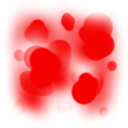
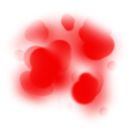
Changing lighting so images are in the background on divs instead of img elements, allowing for changes by simply adding/removing classes. Removes unnecessary light image change event handler.

diff --git a/www/js/pc-class.js b/www/js/pc-class.js
@@ -66,9 +66,10 @@ class PlayerCharacter {
         let newRow = +centerTile.slice(3,this.playerTileIdColIndex),
             newCol = +centerTile.slice(this.playerTileIdColIndex + 3),
             $lightRadiusTiles,
-            $centerTile = $('#' + centerTile);
+            $oldCenterTile = $('#' + this.pos),
+            $newCenterTile = $('#' + centerTile);
 
-        this.removeCenterLighting();
+        this.removeLighting($oldCenterTile, 'light-ctr', 'light-img-radius');
 
         for (let i = this.lightRadius; i >= 1; i--) {
             $lightRadiusTiles = this.helpers.findSurroundingTiles(newRow, newCol, i);
@@ -76,27 +77,25 @@ class PlayerCharacter {
             // when moving, set previous outer light circle to darkness
             if (centerTile !== this.pos && i === this.lightRadius) {
                 let $lastLightRadius = this.helpers.findSurroundingTiles(this.row, this.col, i);
-                $lastLightRadius
-                    .removeClass('light')
-                    .addClass('light-non')
-                    .trigger('lightChange', ['light-non', '<img class="light-img" src="img/light-non.png">']);
+                this.removeLighting($lastLightRadius, 'light', 'light-img-trans');
+                this.addLighting($lastLightRadius, 'light-non', 'light-img-non');
             }
-            $lightRadiusTiles
-                .removeClass('light-non')
-                .addClass('light')
-                .trigger('lightChange', ['light', '<img class="light-img" src="img/trans.png">']);
+            this.removeLighting($lightRadiusTiles, 'light-non', 'light-img-non');
+            this.addLighting($lightRadiusTiles, 'light', 'light-img-trans');
         }
 
-        $centerTile
-            .removeClass('light-non')
-            .addClass('light light-ctr')
-            .trigger('lightChange', ['light-ctr', '<img class="light-img-radius light-img" src="img/light-radius.png">']);
+        this.removeLighting($newCenterTile, '', 'light-img-trans');
+        this.addLighting($newCenterTile, 'light light-ctr', 'light-img-radius');
     }
 
-    removeCenterLighting() {
-        $('#' + this.pos)
-            .trigger('lightChange', ['light-ctr', '<img class="light-img" src="img/trans.png">'])
-            .removeClass('light-ctr');
+    addLighting($tile, lightClass, lightImgClass) {
+        $tile.addClass(lightClass);
+        $tile.children('.light-img').addClass(lightImgClass);
+    }
+
+    removeLighting($tile, lightClass, lightImgClass) {
+        $tile.removeClass(lightClass);
+        $tile.children('.light-img').removeClass(lightImgClass);
     }
 
     /*

diff --git a/www/js/grid-class.js b/www/js/grid-class.js
@@ -14,8 +14,8 @@ class Grid {
         let self = this,
             markup = '',
             id = '',
-            blackGroundTile = '<figure id="" class="tile tile-ground-dungeon walkable light-non"><img class="light-img" src="img/light-non.png"><img class="content" src="img/trans.png"></figure>',
-            borderTile = '<figure id="" class="tile tile-wall impassable light-non"><img class="light-img" src="img/light-non.png"><img class="content" src="img/trans.png"></figure>';
+            blackGroundTile = '<figure id="" class="tile tile-ground-dungeon walkable light-non"><div class="light-img light-img-non"></div><img class="content" src="img/trans.png"></figure>',
+            borderTile = '<figure id="" class="tile tile-wall impassable light-non"><div class="light-img light-img-non"></div><img class="content" src="img/trans.png"></figure>';
 
         $('.grid').prepend(() => {
             for(let rowNum=0; rowNum <= self.gridHeight + 1; rowNum++) {
@@ -55,10 +55,6 @@ class Grid {
         $('.' + tileClass + '>img.content').replaceWith(image);
     }
 
-    updateLightingImage(e, tileClass, image) {
-        $('.' + tileClass + '>img.light-img').replaceWith(image);
-    }
-
     animateTile(e, params) {
         let $target = $('#' + params.targetObject.pos),
             $targetContent = $target.children('.content'),
@@ -68,7 +64,7 @@ class Grid {
 
         switch (type) {
             case 'attack':
-                $target.prepend("<img class='blood' src='img/blood.png'>");
+                $target.prepend("<div class='blood'></div>");
                 $(".blood")
                     .css("transform", "rotate(" + rotation + "deg)")
                     .animate({opacity: 1}, 100)

diff --git a/www/css/index.css b/www/css/index.css
@@ -45,6 +45,10 @@ figure {
     }
 }
 
+/**
+ *  Status bar
+ */
+
 #statusbar {
     position: relative;
     z-index: 4;
@@ -92,6 +96,10 @@ figure {
     box-shadow: 1px 1px 2px black;
 }
 
+/**
+ *  Grid
+ */
+
 .grid {
     margin: auto;
     background-color:black;
@@ -119,17 +127,43 @@ figure {
     background-size: contain;
 }
 
+/**
+ *  Lighting
+ */
+
 .light-img {
-    z-index: 2;
     position: absolute;
 }
 
+.light-img-trans {
+    background-image: url('../img/trans.png');
+    width: 64px;
+    height: 64px;
+    z-index: 2;
+}
+
+.light-img-non {
+    background-image: url('../img/light-non.png');
+    width: 64px;
+    height: 64px;
+    z-index: 2;
+}
+
 .light-img-radius {
-    left: -158px;
-    top: -158px;
-    width: 380px;
+    background-image: url('../img/light-radius.png');
+    background-size: 360px 360px;
+    background-repeat: no-repeat;
+    background-position: -20px -20px;
+    left: -128px;
+    top: -128px;
+    width: 320px;
+    height: 320px;
     z-index: 1;
 }
+
+/**
+ *  Modal
+ */
 
 .modal {
     display: none;
@@ -198,7 +232,11 @@ figure {
 
 .blood {
     position: absolute;
+    background-image: url('../img/blood.png');
+    background-size: 64px 64px;
+    background-repeat: no-repeat;
     width: 64px;
+    height: 64px;
     opacity: 0;
     z-index: 1;
 }

diff --git a/www/js/turn-control.js b/www/js/turn-control.js
@@ -41,7 +41,6 @@ class TurnController {
         // $('.light-img').remove();
 
         this.events.setUpTileChangeListener(this.tileListenerTarget, this.grid.updateTileImage);
-        this.events.setUpLightChangeListener(this.tileListenerTarget, this.grid.updateLightingImage);
         this.players.player1.initialize();
         this.monsters.monster1.initialize();
         this.startGame();

diff --git a/www/js/events-class.js b/www/js/events-class.js
@@ -35,8 +35,4 @@ class Events {
     setUpTileChangeListener(target, action) {
         $(target).on('tileChange', (e, tileClass, image) => { action(e, tileClass, image); });
     }
-
-    setUpLightChangeListener(target, action) {
-        $(target).on('lightChange', (e, tileClass, image) => { action(e, tileClass, image); });
-    }
 }
